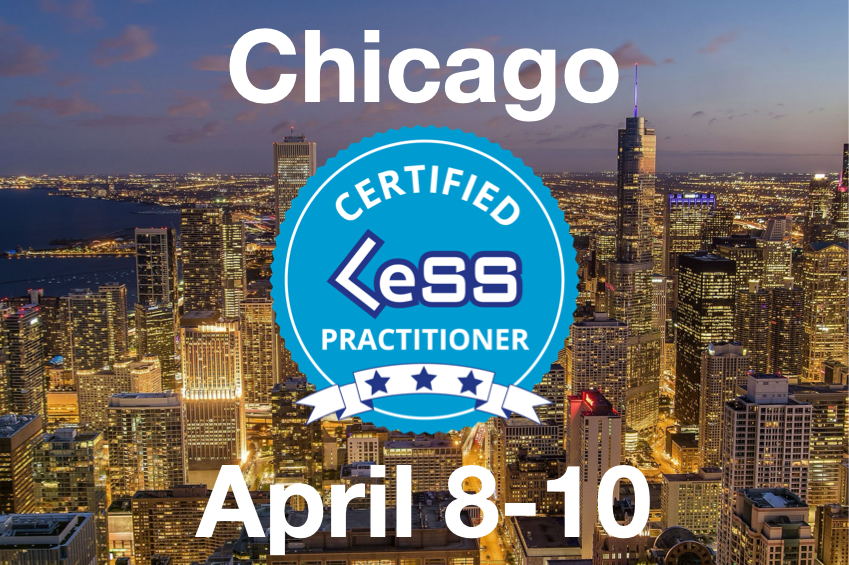
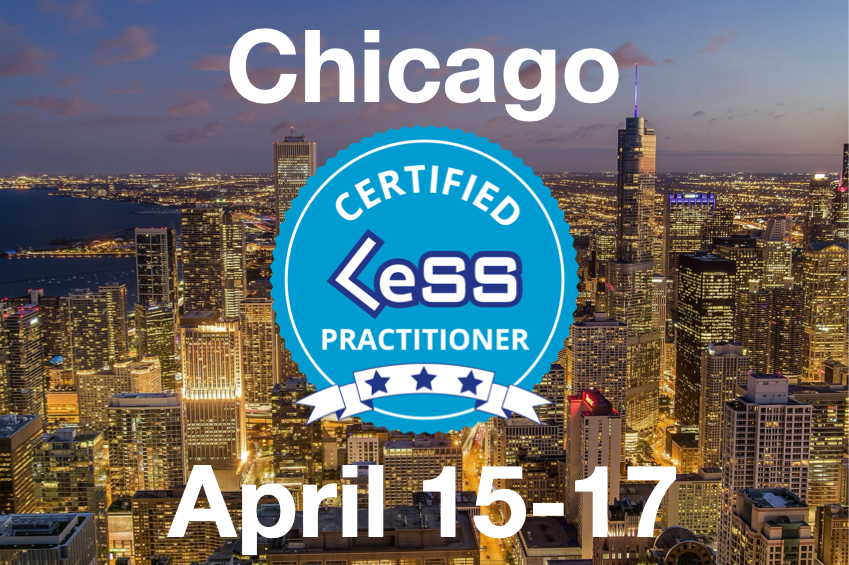
changed date to April 15 to 17 for Spring 2026 Chicago course

Changed region(s): [[0.1837, 0.8124, 0.7962, 0.9929]]

diff --git a/clp/chicago_spring_2026.md b/clp/chicago_spring_2026.md
@@ -1,18 +1,18 @@
 ---
-title: Chicago Certified LeSS Practitioner April 8-10, 2026
+title: Chicago Certified LeSS Practitioner April 15-17, 2026
 image: /assets/images/clp/ChicagoCLPWebsitePageHeaderNoDates.png
-ogimage: /assets/images/clp/ChicagoCLPWebsitePageHeaderApril8to10_OgImage.png
+ogimage: /assets/images/clp/ChicagoCLPWebsitePageHeaderApril15to17_OgImage.png
 author: James
 layout: book
 trainingevent:
-  startDate: "2025-04-08T08:30-06:00"
-  endDate: "2025-04-10T18:00-06:00"
+  startDate: "2025-04-15T08:30-06:00"
+  endDate: "2025-04-17T18:00-06:00"
   location:
-    name: "theWit Chicago, a Hilton Hotel"
+    name: "Sheraton Grand Chicago Riverwalk"
     address:
-      streetAddress: "201 N State St"
+      streetAddress: "301 E North Water St"
       addressLocality: "Chicago"
-      postalCode: "60601"
+      postalCode: "60611"
       addressRegion: "IL"
       addressCountry: "US"
   images:
@@ -31,7 +31,7 @@ trainingevent:
     url: "https://agilecarpentry.com"
 ---
 
-<a class="wx-button" href="https://agilecarpentry.ticketspice.com/chicago-spring-2026" style="background:rgba(36,36,36,1);color:white;padding:10px 20px;text-decoration:none;font-weight:bold;" target="_blank">April 8-10: Get Tickets</a>
+<a class="wx-button" href="https://agilecarpentry.ticketspice.com/chicago-spring-2026" style="background:rgba(36,36,36,1);color:white;padding:10px 20px;text-decoration:none;font-weight:bold;" target="_blank">April 15-17: Get Tickets</a>
 
 {% include_relative _includes/course_agenda.md %}
 
@@ -62,18 +62,15 @@ See the following pages for additional travel details:
 
 # Training Venue Details
 
-I have reserved a hospitality suite at [theWit Chicago](https://thewithotel.com/){:target="_blank"}, 201 N. State Street, Chicago IL 60601. 
+I have reserved a hospitality suite at [Sheraton Grand Chicago Riverwalk](https://www.marriott.com/en-us/hotels/chigs-sheraton-grand-chicago-riverwalk/overview/){:target="_blank"}, 301 E North Water St, Chicago, IL 60611.
 
-The hospitality suite will provide enough capacity to support the first five or six attendees, at which point I will cancel the hospitality suite and book a larger event space nearby.
-
-There is a significant chance any larger event space will be outside of theWit. I therefore suggest you ensure any hotel reservations you make at theWit can be canceled without penalty. 
+I strongly suggest you ensure any hotel room reservations you make at the Sheraton Grand Chicago Riverwalk can be canceled without penality. To explain, I will be starting with a smaller hospitality suite to keep the course viable at as small of a head count as possible. As the number of participants increases I will transition to a larger space. This hotel has a significant number of hospitality suites. I don't expect to have much trouble transitioning into larger space on-property when needed, but it could happen. If it does, the class could get moved to another downtown Chicago hotel.
 
 Hotel room prices in downtown Chicago tend to rise quickly. Therefore, it makes sense to reserve your hotel room early, just make sure you can cancel and relocate if needed.
 
-Taking the Blue Line on the elevated train from Chicago O'Hare Airport (ORD) to the Clark/Lake station will put you within two blocks of theWit Hotel.
+Taking the Blue Line on the elevated train from Chicago O'Hare Airport (ORD) to the State/Lake station will put you within a 16 minute walk or a short cab ride of the hotel.
 
-If you are traveling via Amtrak, you will arrive downtown at Amtrak Union Station. This will put you within a long walk, short L train ride, or a five minute Uber ride of theWit.
-
+If you are traveling via Amtrak, you will arrive downtown at Amtrak Union Station. The Amtrak station is a 10 minute cab ride from the hotel.
 
 # Meals
 
@@ -81,7 +78,7 @@ I will be providing lunch for everyone. I anticipate we will eat lunch at table 
 
 # Tickets
 
-<a class="wx-button" href="https://agilecarpentry.ticketspice.com/chicago-spring-2026" style="background:rgba(36,36,36,1);color:white;padding:10px 20px;text-decoration:none;font-weight:bold;" target="_blank">April 8-10: Get Tickets</a>
+<a class="wx-button" href="https://agilecarpentry.ticketspice.com/chicago-spring-2026" style="background:rgba(36,36,36,1);color:white;padding:10px 20px;text-decoration:none;font-weight:bold;" target="_blank">April 15-17: Get Tickets</a>
 
 
 
